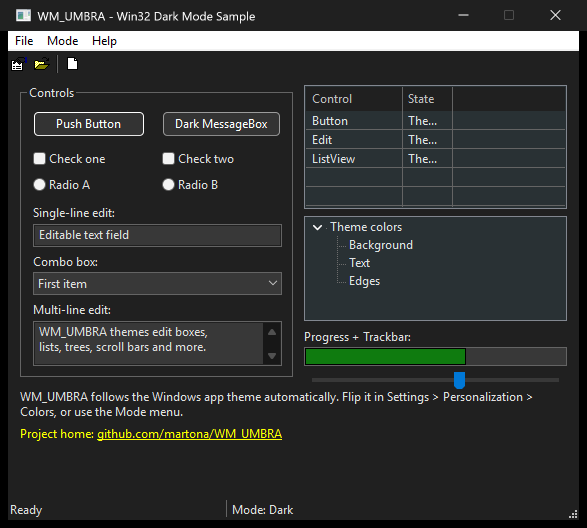
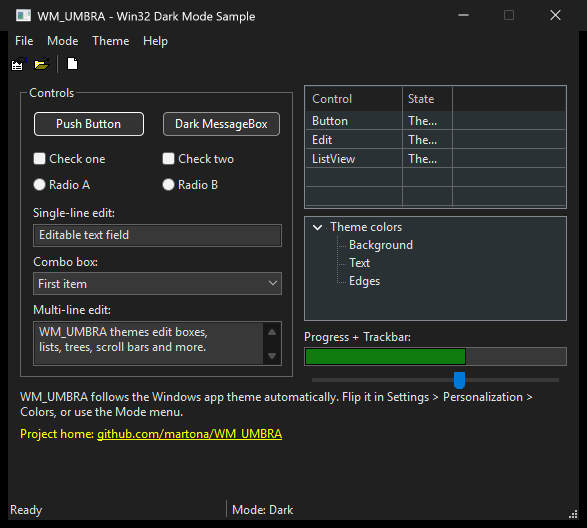
Sample: theme the menu bar + add a dark accent-tone (Theme) menu
Call umbra::setWindowMenuBarSubclass() so the menu bar (background, items, highlight, NC bottom line) is dark-themed - the one surface the sample left unthemed. Popup dropdowns + their checkmarks come from the dark menu theme initDarkMode() enables.

Add a Theme menu exposing umbra::setColorTone() (black/red/green/blue/purple/cyan/olive); picking a tone selects that dark accent palette. Active Mode + Theme show as radio checkmarks (CheckMenuRadioItem); the bar is repainted via DrawMenuBar on theme changes.

README: document the color tones + Theme menu and refresh the dark/light screenshots.

Changed region(s): [[0.0, 0.0606, 1.0, 0.1212]]

diff --git a/sample/main.cpp b/sample/main.cpp
@@ -33,6 +33,7 @@ namespace
     HINSTANCE g_hInst    = nullptr;
     HWND      g_hToolbar = nullptr;
     HWND      g_hStatus  = nullptr;
+    int       g_modeId   = IDM_MODE_SYSTEM;  // active Mode item, for the radio check
 
     void UpdateModeStatus()
     {
@@ -43,12 +44,25 @@ namespace
         }
     }
 
+    // Reflect the active mode + color tone as radio checks in the menus.
+    void UpdateMenuChecks(HWND hDlg)
+    {
+        HMENU menu = ::GetMenu(hDlg);
+        if (menu == nullptr)
+            return;
+        ::CheckMenuRadioItem(menu, IDM_MODE_SYSTEM, IDM_MODE_LIGHT, g_modeId, MF_BYCOMMAND);
+        const int toneId = IDM_TONE_BLACK + static_cast<int>(umbra::getColorTone());
+        ::CheckMenuRadioItem(menu, IDM_TONE_BLACK, IDM_TONE_OLIVE, toneId, MF_BYCOMMAND);
+    }
+
     // Re-apply the dark/light theme to the whole window tree and repaint.
     void ReapplyTheme(HWND hDlg)
     {
         umbra::setDarkWndNotifySafe(hDlg);
         umbra::setDarkTitleBar(hDlg);
         UpdateModeStatus();
+        UpdateMenuChecks(hDlg);
+        ::DrawMenuBar(hDlg);   // repaint the (subclassed) menu bar with the new colors
         ::RedrawWindow(hDlg, nullptr, nullptr,
             RDW_INVALIDATE | RDW_ERASE | RDW_ALLCHILDREN | RDW_FRAME | RDW_UPDATENOW);
     }
@@ -162,8 +176,10 @@ INT_PTR CALLBACK MainDlgProc(HWND hDlg, UINT msg, WPARAM wParam, LPARAM lParam)
         // One call themes the dialog, all of its child controls, the ctl-color
         // messages, custom draw, and the title bar.
         umbra::setDarkWndNotifySafe(hDlg);
+        umbra::setWindowMenuBarSubclass(hDlg);   // dark menu bar: background, items, highlight, bottom line
         umbra::setDarkTitleBar(hDlg);
         UpdateModeStatus();
+        UpdateMenuChecks(hDlg);
         ::SendMessageW(hDlg, WM_SIZE, 0, 0);   // dock the bars
         return TRUE;
 
@@ -202,19 +218,37 @@ INT_PTR CALLBACK MainDlgProc(HWND hDlg, UINT msg, WPARAM wParam, LPARAM lParam)
             return TRUE;
 
         case IDM_MODE_SYSTEM:
+            g_modeId = IDM_MODE_SYSTEM;
             umbra::setDarkModeConfig();
             umbra::setDefaultColors(true);
             ReapplyTheme(hDlg);
             return TRUE;
 
         case IDM_MODE_DARK:
+            g_modeId = IDM_MODE_DARK;
             umbra::setDarkModeConfig(static_cast<UINT>(umbra::DarkModeType::dark));
             umbra::setDefaultColors(true);
             ReapplyTheme(hDlg);
             return TRUE;
 
         case IDM_MODE_LIGHT:
+            g_modeId = IDM_MODE_LIGHT;
             umbra::setDarkModeConfig(static_cast<UINT>(umbra::DarkModeType::classic));
+            umbra::setDefaultColors(true);
+            ReapplyTheme(hDlg);
+            return TRUE;
+
+        case IDM_TONE_BLACK:
+        case IDM_TONE_RED:
+        case IDM_TONE_GREEN:
+        case IDM_TONE_BLUE:
+        case IDM_TONE_PURPLE:
+        case IDM_TONE_CYAN:
+        case IDM_TONE_OLIVE:
+            // Tones are dark-mode accent palettes, so picking one selects dark mode.
+            umbra::setColorTone(static_cast<umbra::ColorTone>(LOWORD(wParam) - IDM_TONE_BLACK));
+            g_modeId = IDM_MODE_DARK;
+            umbra::setDarkModeConfig(static_cast<UINT>(umbra::DarkModeType::dark));
             umbra::setDefaultColors(true);
             ReapplyTheme(hDlg);
             return TRUE;

diff --git a/sample/resource.h b/sample/resource.h
@@ -32,3 +32,12 @@
 #define IDM_MODE_DARK       40003
 #define IDM_MODE_LIGHT      40004
 #define IDM_HELP_ABOUT      40005
+
+// Dark-mode color tones (must stay in umbra::ColorTone order: black=0 .. olive=6)
+#define IDM_TONE_BLACK      40010
+#define IDM_TONE_RED        40011
+#define IDM_TONE_GREEN      40012
+#define IDM_TONE_BLUE       40013
+#define IDM_TONE_PURPLE     40014
+#define IDM_TONE_CYAN       40015
+#define IDM_TONE_OLIVE      40016

diff --git a/README.md b/README.md
@@ -20,6 +20,7 @@ light/dark theme.
 
 - 🖤 Native dark mode for classic Win32 windows, dialogs, and common controls
 - 🪟 Dark title bar, menus, scroll bars, list/tree views, and a dark-aware `MessageBox`
+- 🎨 Optional dark accent **color tones** (black, red, green, blue, purple, cyan, olive)
 - 🔄 Follows the OS app theme and re-themes **live** on `WM_SETTINGCHANGE`
 - 🧩 Hooks the system theming/`GetSysColor` paths for consistent results
 - 🏗️ Builds for **x86, x64, and ARM64**; ships an MSBuild solution **and** a CMake project
@@ -56,8 +57,8 @@ umbra::DarkMessageBox(hWnd, L"Hello from the dark side.", L"WM_UMBRA", MB_OK);
 ```
 
 A complete, runnable example lives in [`sample/`](sample) — a dialog with a
-menu, toolbar, status bar, the full control zoo, and a `Mode` menu to force
-dark/light/system.
+menu, toolbar, status bar, the full control zoo, a `Mode` menu (force
+dark/light/system), and a `Theme` menu (pick an accent color tone).
 
 ## Building
 